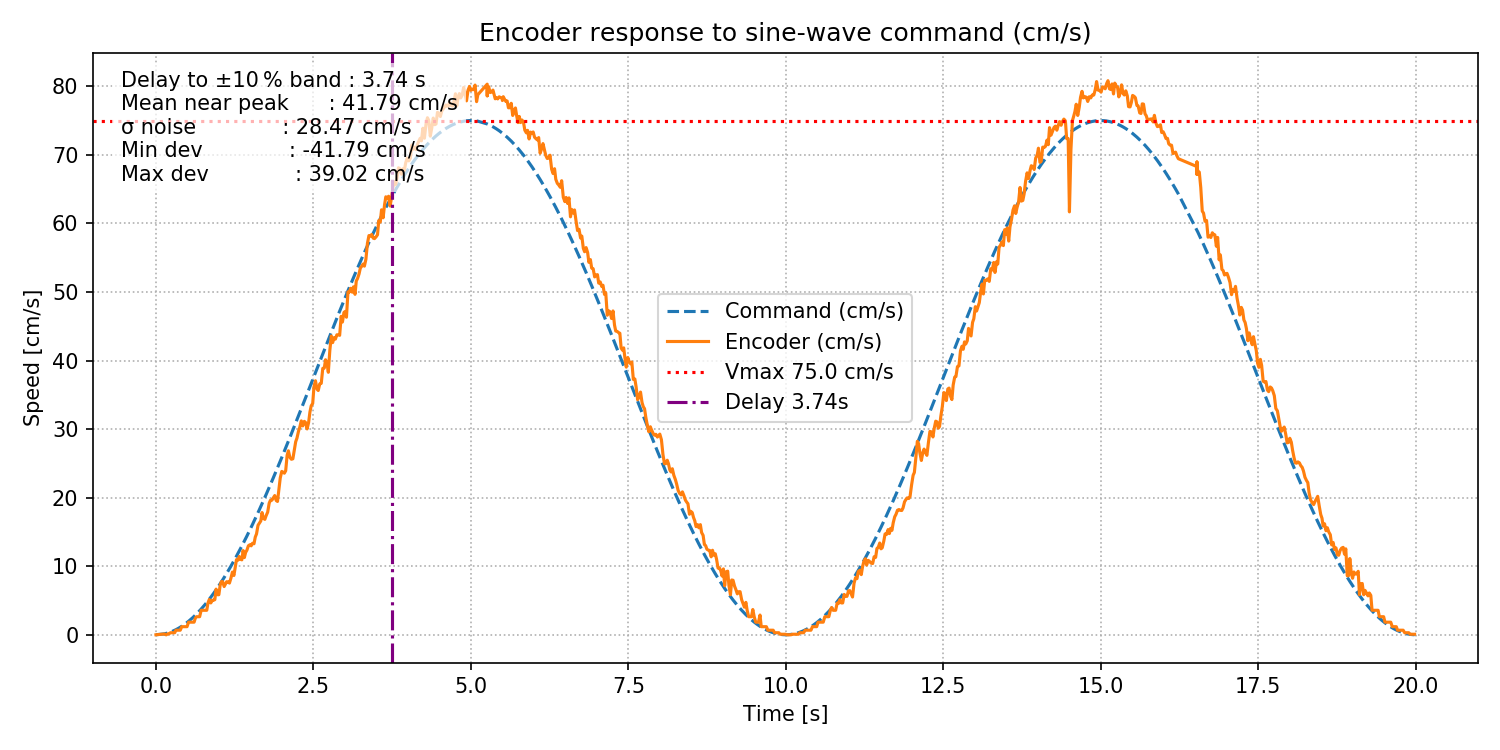
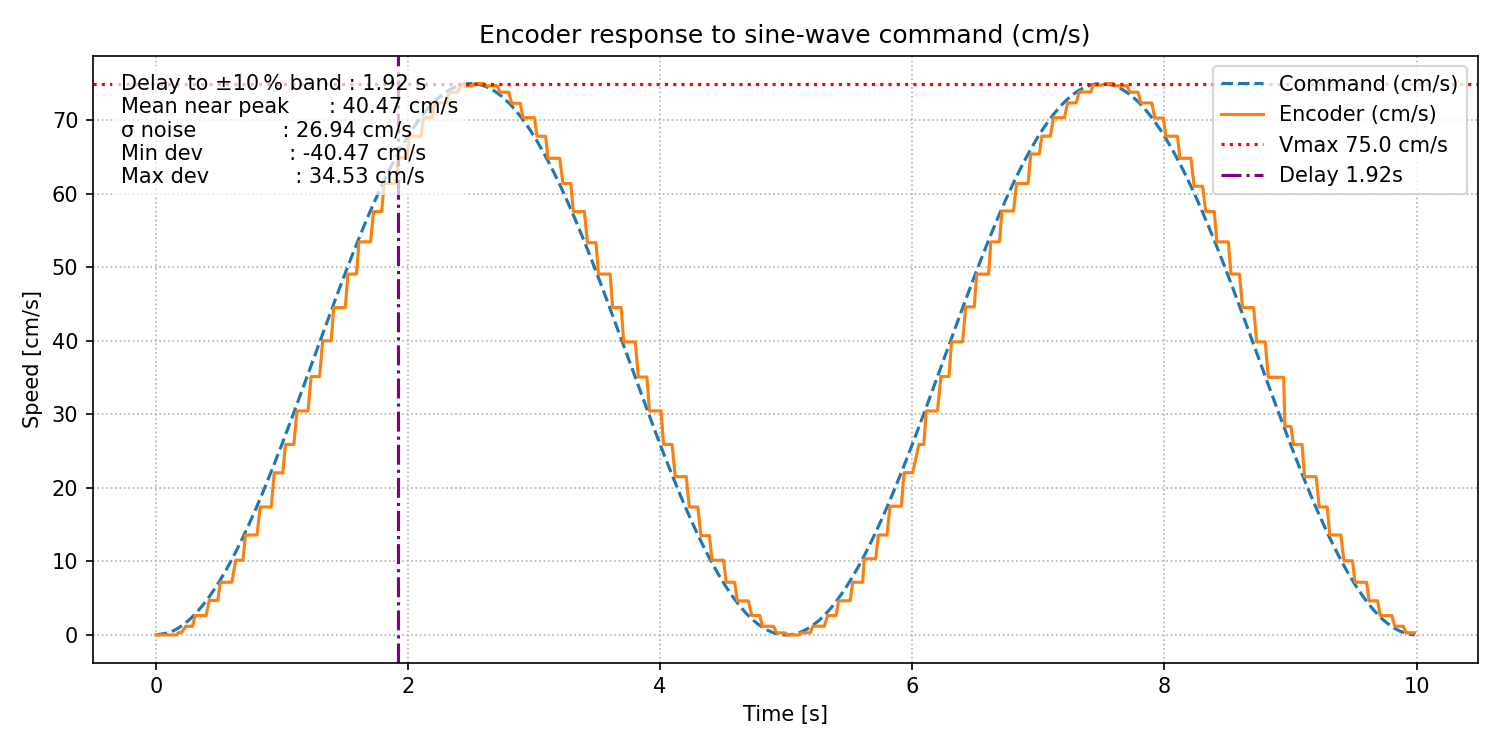
working I2C communication with the encoder

diff --git a/Embedded_Platform/Embedded_2024/scripts/encoder_sine_test.py b/Embedded_Platform/Embedded_2024/scripts/encoder_sine_test.py
@@ -194,7 +194,7 @@ def main() -> None:
     ap = argparse.ArgumentParser(description="Sine‑wave encoder test (cm/s)")
     ap.add_argument("--max",   type=float, default=75, help="Peak command speed [cm/s]")
     ap.add_argument("--steer", type=float, default=0,  help="Steering angle [deg]")
-    ap.add_argument("--dur",   type=float, default=20, help="Duration / sine period [s]")
+    ap.add_argument("--dur",   type=float, default=10, help="Duration / sine period [s]")
     ap.add_argument("--csv",   type=Path, help="Save raw data to CSV")
     ap.add_argument("--port",  default="/dev/ttyACM0")
     ap.add_argument("--baud",  type=int, default=115200)

diff --git a/Embedded_Platform/Embedded_2024/source/main.cpp b/Embedded_Platform/Embedded_2024/source/main.cpp
@@ -29,7 +29,7 @@ periodics::CBlinker g_blinker(1, LED1);
 periodics::CTotalVoltage g_totalvoltage(1, A1, g_rpi);
 periodics::CImu g_imu(1, g_rpi, I2C_SDA, I2C_SCL);
 #if ENCODER_USE_I2C
-periodics::CEncoder g_encoder(1, 1, g_rpi, I2C_SDA, I2C_SCL);
+periodics::CEncoder g_encoder(1, 1, g_rpi, A4, A5);
 #else
 periodics::CEncoder g_encoder(1, 1, g_rpi, D2);
 #endif

diff --git a/Embedded_Platform/Embedded_2024/include/periodics/encoder.hpp b/Embedded_Platform/Embedded_2024/include/periodics/encoder.hpp
@@ -8,7 +8,7 @@
 #include <algorithm>
 
 // Set to 1 for I2C angle reading, 0 for PWM duty-cycle reading
-#define ENCODER_USE_I2C  0
+#define ENCODER_USE_I2C  1
 
 #if !ENCODER_USE_I2C
 #include "PwmIn.h"
